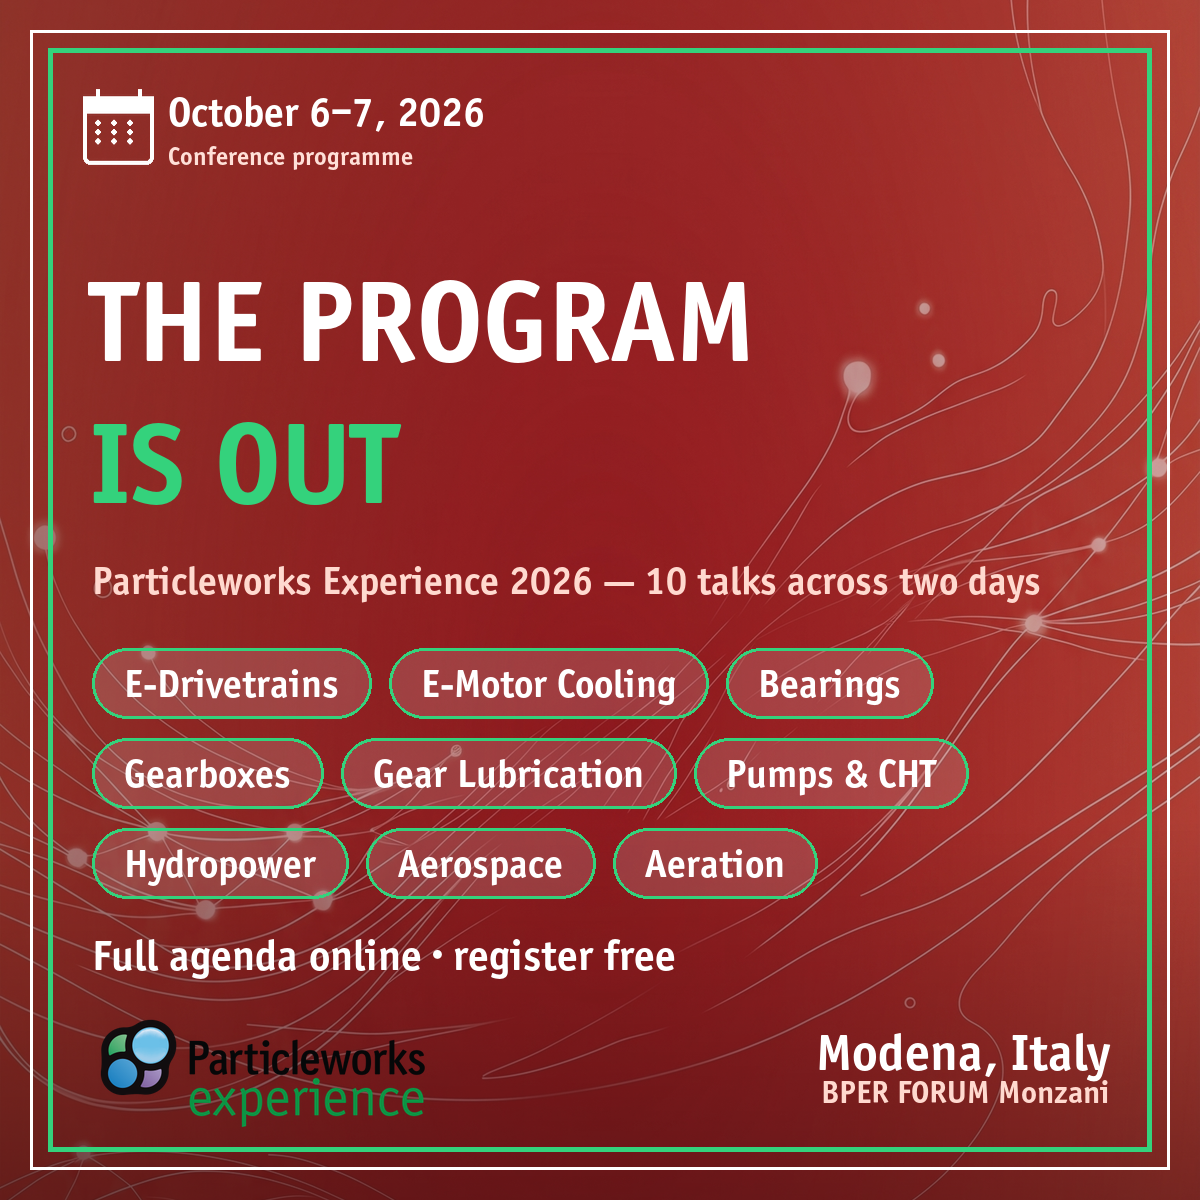
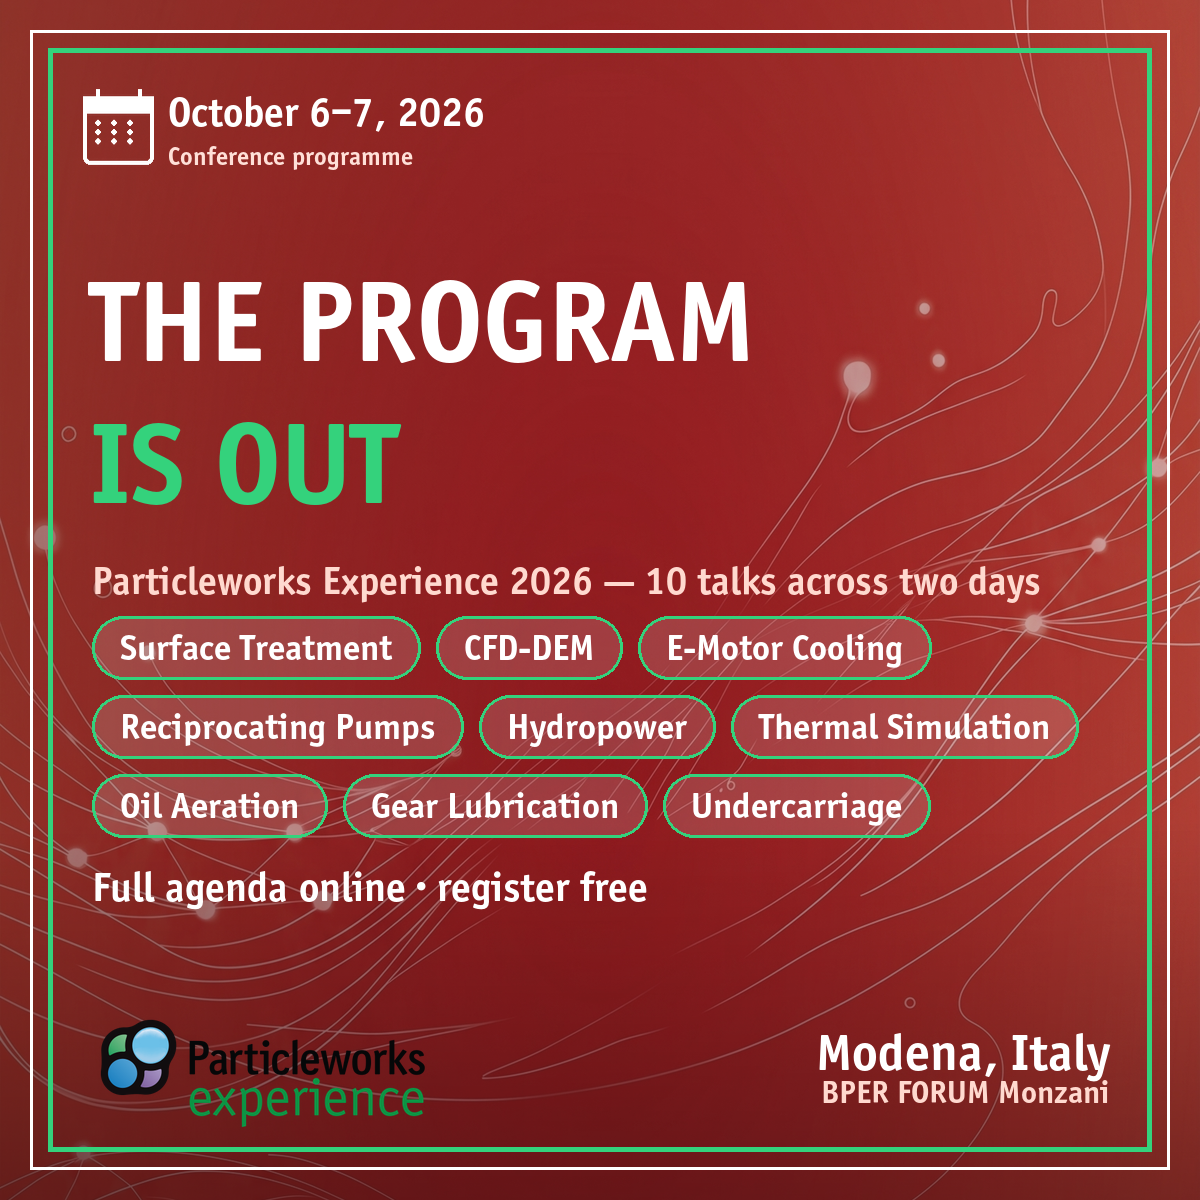
experience/2026: re-render cards after generator update; fix card-00 tag overflow
- Run cards_build.py: regenerate all cards incl. card-01 two-title
  keynote (Issei Masaie + Iori Saigo) and refreshed card-00 tag set
- card-00: new longer tag labels wrapped to 4 rows and pushed the CTA
  onto the logo — tighten tag font/spacing so 9 tags fit 3 rows, CTA
  capped above the logo
- Regenerate linkedin-posts .md/.docx from updated build_posts.py
  (keynote split into two presenters) + refresh PPTX

Changed region(s): [[0.0617, 0.4933, 0.8942, 0.8325]]

diff --git a/experience/cards/cards_build.py b/experience/cards/cards_build.py
@@ -188,8 +188,8 @@ def render_general(fname="card-00-program.png"):
     d.text((90,250),"THE PROGRAM",font=f(118),fill=WHITE)
     d.text((90,392),"IS OUT",font=f(118),fill=GREEN)
     d.text((92,556),"Particleworks Experience 2026 — 10 talks across two days",font=f(40),fill=SUBLOC)
-    yend=draw_tags(im,GEN_TAGS,92,648,1016); d=ImageDraw.Draw(im)
-    d.text((92,yend+30),"Full agenda online · register free",font=f(44),fill=WHITE)
+    yend=draw_tags(im,GEN_TAGS,92,616,1016,fs=37,gap=16,vgap=16,padx=28,pady=13); d=ImageDraw.Draw(im)
+    d.text((92,min(yend+24,952)),"Full agenda online · register free",font=f(42),fill=WHITE)
     lg=Image.open(LOGO).convert("RGBA"); lg=lg.resize((LOGO_W,int(lg.size[1]*LOGO_W/lg.size[0])),Image.LANCZOS)
     im.alpha_composite(lg,(LOGO_X,LOGO_Y))
     d.text((VEN_RIGHT-f(VEN1_PX).getlength(L1),VEN1_Y),L1,font=f(VEN1_PX),fill=WHITE)

diff --git a/experience/cards/linkedin-posts-2026.md b/experience/cards/linkedin-posts-2026.md
@@ -28,12 +28,12 @@ ZF, Bosch, Schaeffler, Continental, Vitesco Technologies, BorgWarner, Magna, Dan
 
 ## 🚀 WHAT'S NEW IN PARTICLEWORKS 9.0 & GRANULEWORKS 4.0
 
-Iori Saigo from Prometech Software will unveil the latest Particleworks 9.0 and Granuleworks 4.0 releases.
+Issei Masaie and Iori Saigo from Prometech Software will unveil the latest Particleworks 9.0 and Granuleworks 4.0 releases — in two parts: what's new, then application examples and case studies.
 
 Discover what's new in particle-based simulation:
-- Major gains in simulation performance and GPU efficiency
+- Issei Masaie — What's New: major gains in simulation performance and GPU efficiency
 - Extended multi-physics capabilities for complex fluid dynamics
-- Application examples and case studies from the latest developments
+- Iori Saigo — Application Examples & Case Studies from the latest developments
 
 📍 Modena, Italy 🇮🇹  
 📅 6-7 Oct 2026  
